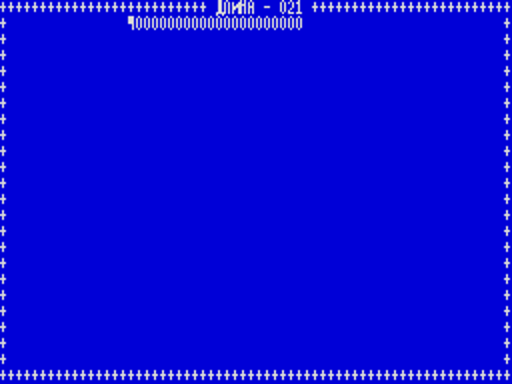
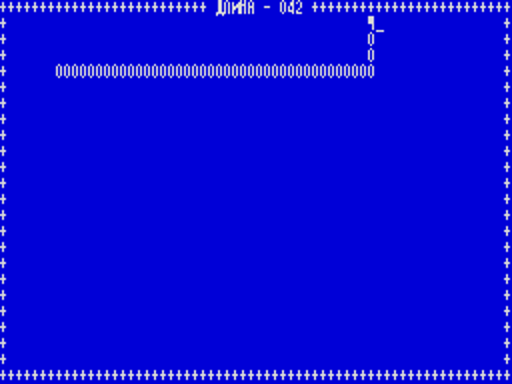
RK-86 emulator: more screenshots
Loading Piton with directive I, a long game, a BASIC session with LIST
and RUN, and the Monitor directives with the RUS/LAT switch.

Changed region(s): [[0.0938, 0.0312, 0.75, 0.2188], [0.25, 0.0, 0.5938, 0.0938]]

diff --git a/README.md b/README.md
@@ -892,9 +892,10 @@ sjasmplus: тот же набор директив, та же таблица #F8
 эмулятор, `piton.tap` — «Питон» с записи 26 (оригинал для РК) и `basic.tap` — BASIC для
 РК-86; вторую и третью читает директива `I`.
 
-![Монитор](rk86_plus3/1_monitor.png)
-![«Питон» в эмуляторе](rk86_plus3/2_piton.png)
-![BASIC в эмуляторе](rk86_plus3/3_basic.png)
+![Загрузка «Питона» директивой I и запуск](rk86_plus3/1_monitor.png)
+![«Питон»](rk86_plus3/2_piton.png)
+![BASIC: LIST и RUN](rk86_plus3/3_basic.png)
+![Директивы F, S, M и режим РУС](rk86_plus3/4_directives.png)
 
 Что перенесено на другую машину:
 

diff --git a/rk86_plus3/README.md b/rk86_plus3/README.md
@@ -14,9 +14,10 @@
 
 Вторую и третью ленты читает уже Монитор эмулятора, директивой `I`.
 
-![Монитор](1_monitor.png)
+![Загрузка «Питона» директивой I и запуск](1_monitor.png)
 ![«Питон»](2_piton.png)
-![BASIC](3_basic.png)
+![BASIC: LIST и RUN](3_basic.png)
+![Директивы F, S, M и режим РУС](4_directives.png)
 
 ## Запуск
 
